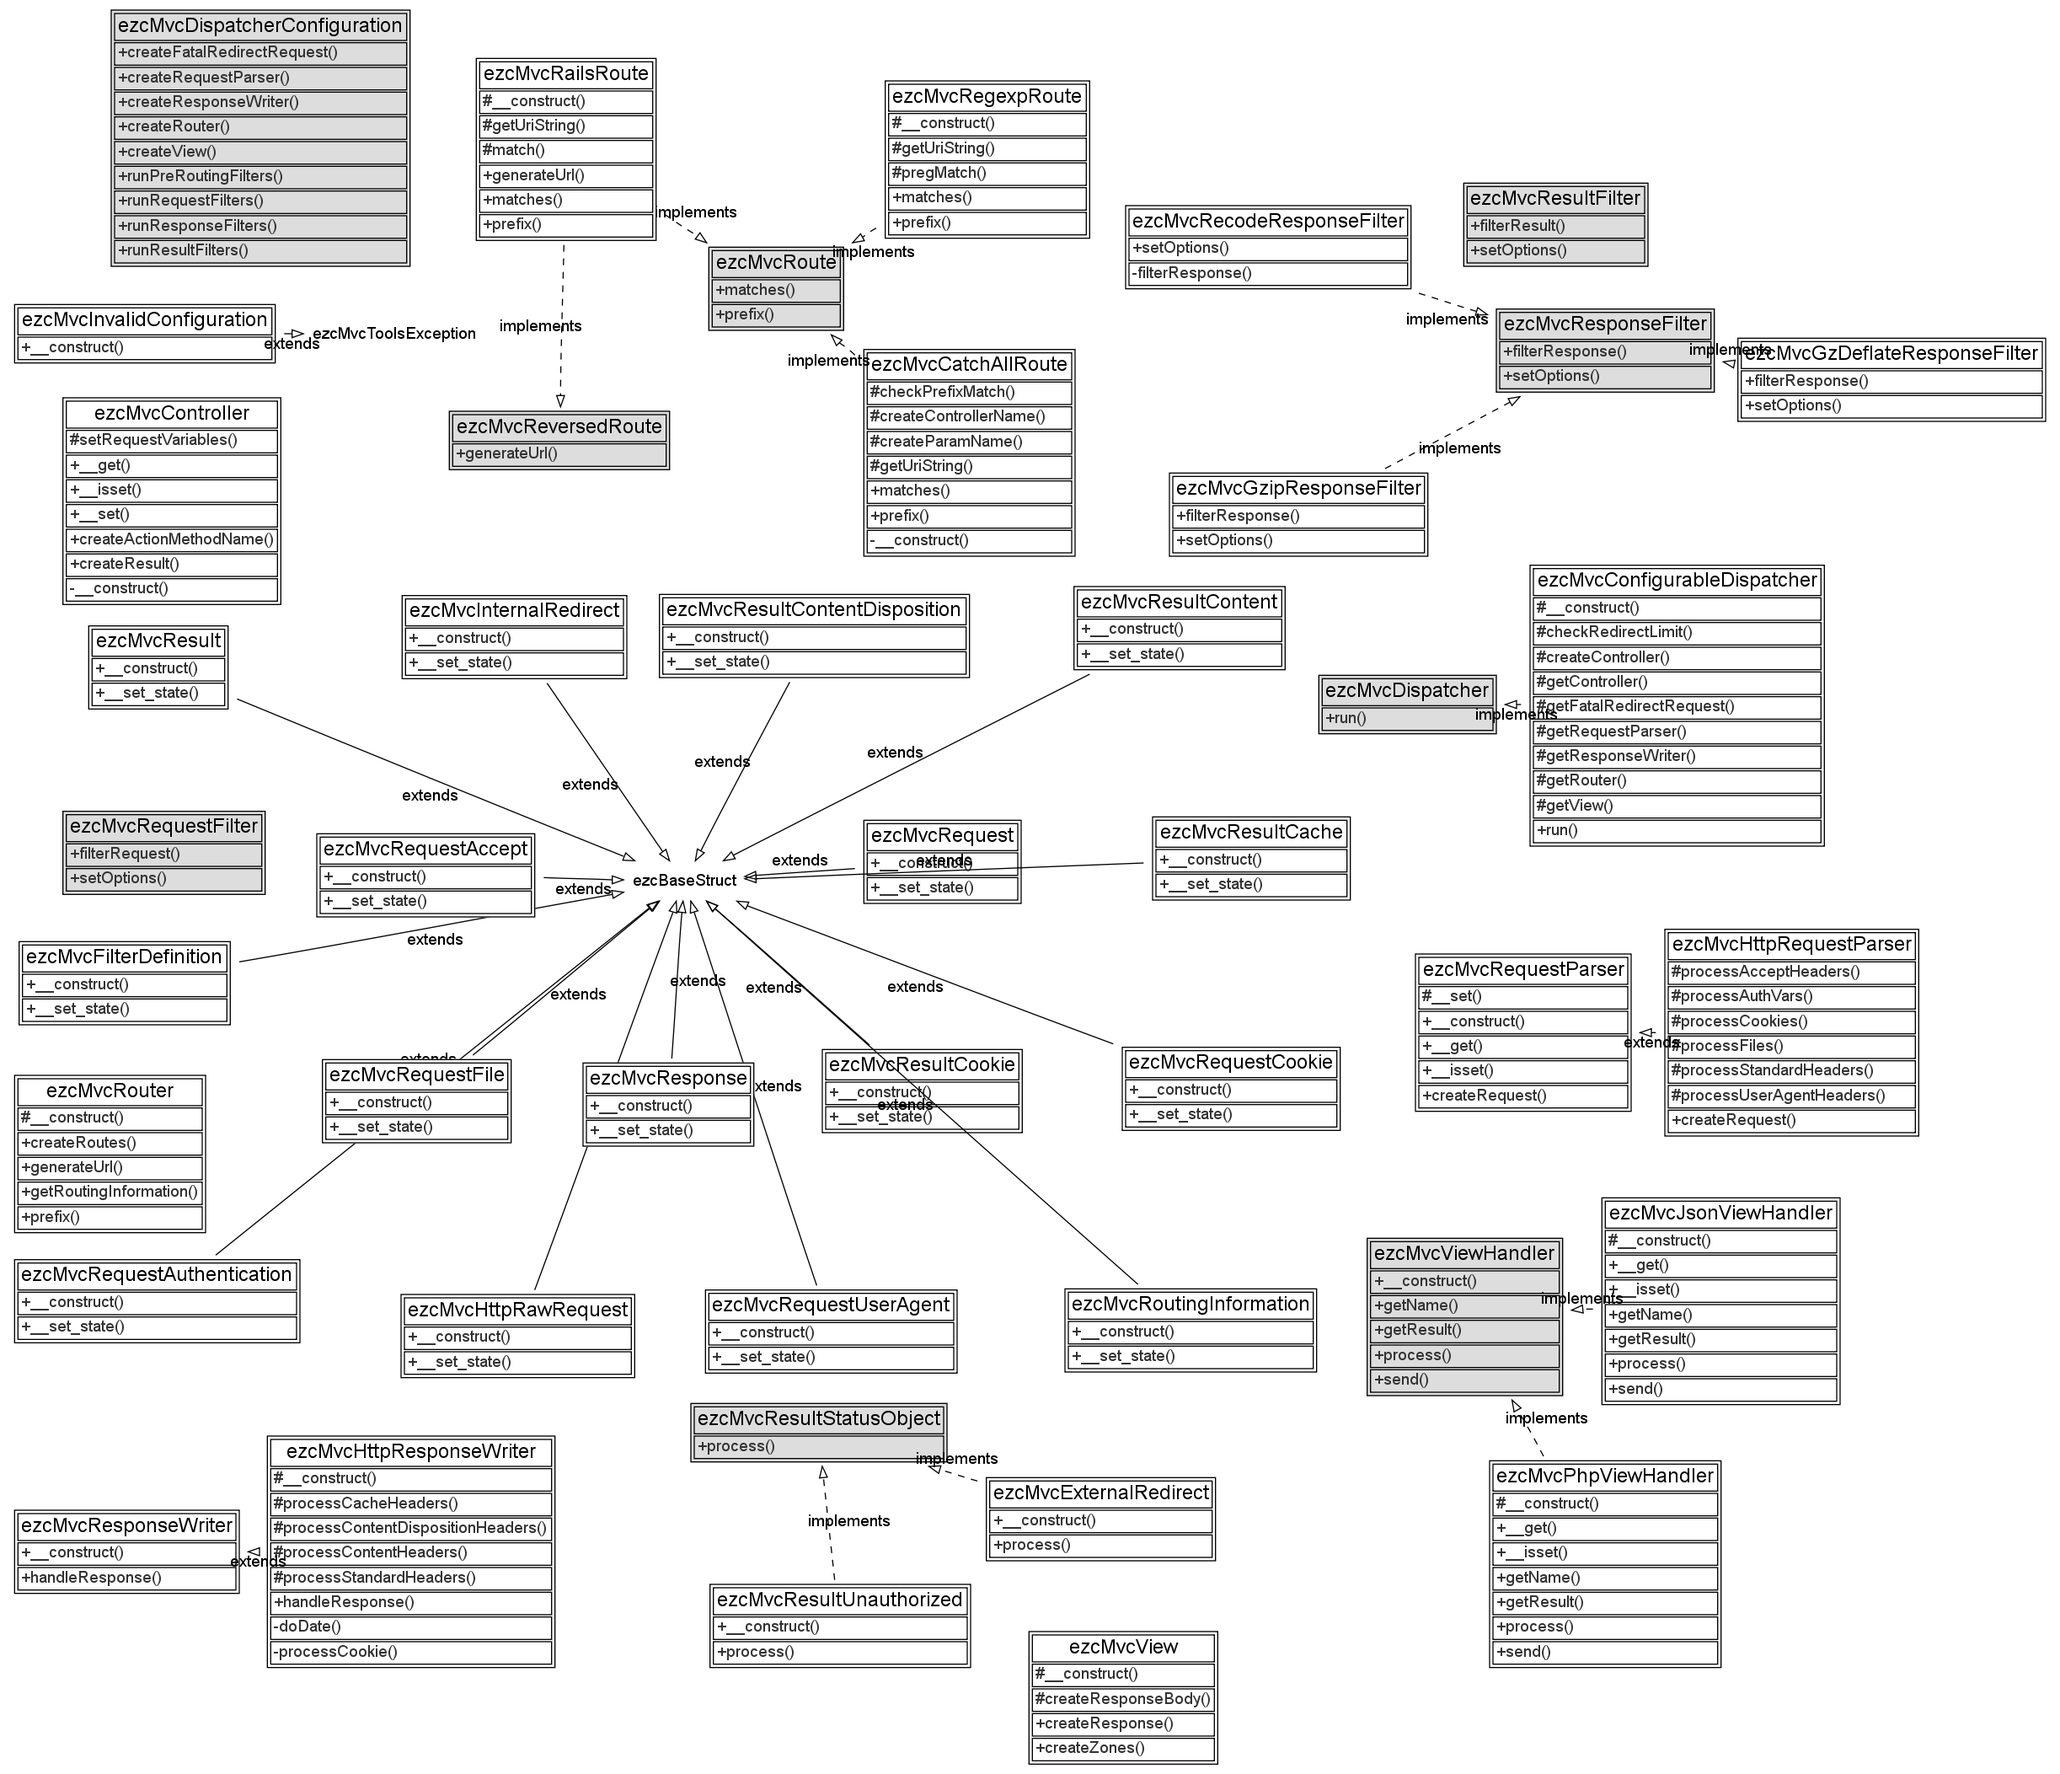
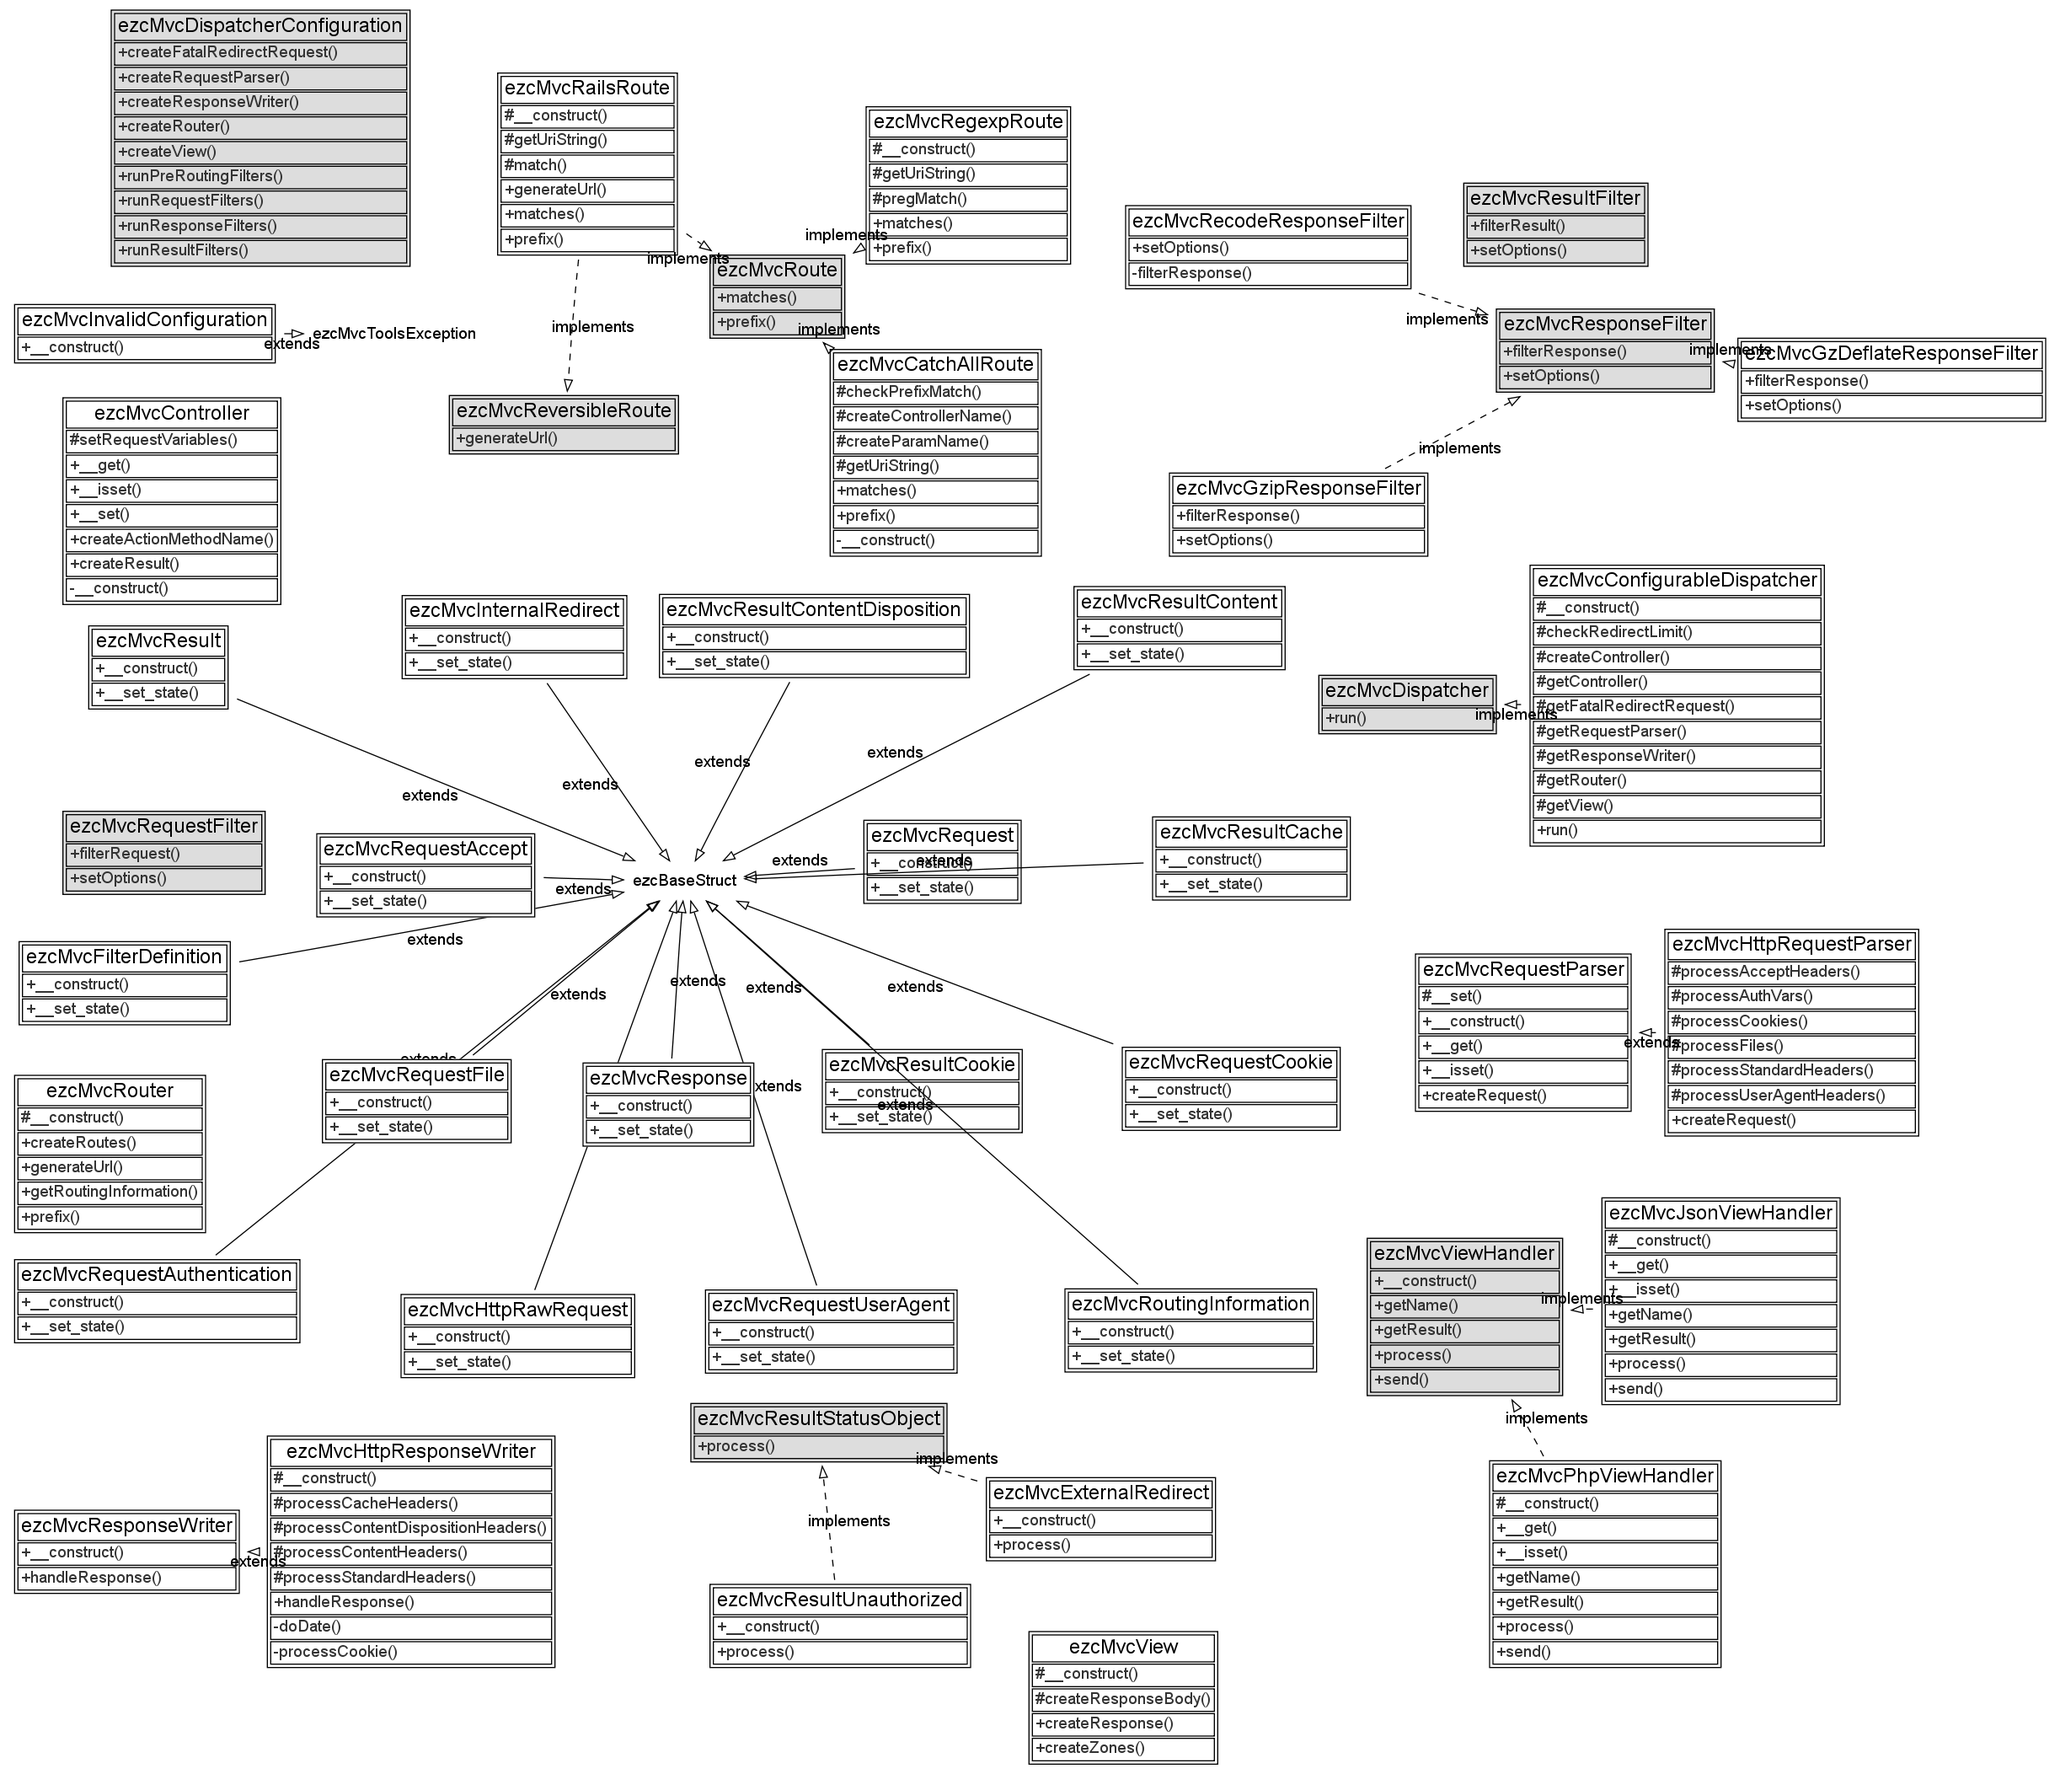
- Renamed ezcMvcReversedRoute to ezcMvcReversibleRoute.
git-svn-id: https://svn.apache.org/repos/asf/incubator/zetacomponents/trunk@977726 13f79535-47bb-0310-9956-ffa450edef68

Changed region(s): [[0.2176, 0.0309, 0.5284, 0.3088], [0.2176, 0.2162, 0.3419, 0.2779]]

diff --git a/MvcTools/src/mvc_autoload.php b/MvcTools/src/mvc_autoload.php
@@ -30,7 +30,7 @@ return array(
     'ezcMvcResponseFilter'                   => 'MvcTools/interfaces/response_filter.php',
     'ezcMvcResponseWriter'                   => 'MvcTools/interfaces/response_writer.php',
     'ezcMvcResultStatusObject'               => 'MvcTools/interfaces/result_status_object.php',
-    'ezcMvcReversedRoute'                    => 'MvcTools/interfaces/reversed_route.php',
+    'ezcMvcReversibleRoute'                  => 'MvcTools/interfaces/reversed_route.php',
     'ezcMvcRoute'                            => 'MvcTools/interfaces/route.php',
     'ezcMvcViewHandler'                      => 'MvcTools/interfaces/view_handler.php',
     'ezcMvcCatchAllRoute'                    => 'MvcTools/routes/catchall.php',

diff --git a/MvcTools/src/interfaces/reversed_route.php b/MvcTools/src/interfaces/reversed_route.php
@@ -1,6 +1,6 @@
 <?php
 /**
- * This file contains the ezcMvcReservedRoute interface.
+ * This file contains the ezcMvcReversibleRoute interface.
  *
  * @copyright Copyright (C) 2005-2009 eZ Systems AS. All rights reserved.
  * @license http://ez.no/licenses/new_bsd New BSD License
@@ -16,7 +16,7 @@
  * @package MvcTools
  * @version //autogentag//
  */
-interface ezcMvcReversedRoute
+interface ezcMvcReversibleRoute
 {
     /**
      * Generates an URL back out of a route, including possible arguments

diff --git a/MvcTools/src/router.php b/MvcTools/src/router.php
@@ -132,7 +132,7 @@ abstract class ezcMvcRouter
         {
             throw new ezcMvcNamedRouteNotFoundException( $routeName );
         }
-        if ( $routes[$routeName] instanceof ezcMvcReversedRoute )
+        if ( $routes[$routeName] instanceof ezcMvcReversibleRoute )
         {
             return $routes[$routeName]->generateUrl( $arguments );
         }

diff --git a/MvcTools/src/routes/rails.php b/MvcTools/src/routes/rails.php
@@ -16,7 +16,7 @@
  * @version //autogentag//
  * @mainclass
  */
-class ezcMvcRailsRoute implements ezcMvcRoute, ezcMvcReversedRoute
+class ezcMvcRailsRoute implements ezcMvcRoute, ezcMvcReversibleRoute
 {
     /**
      * This property contains the pattern
